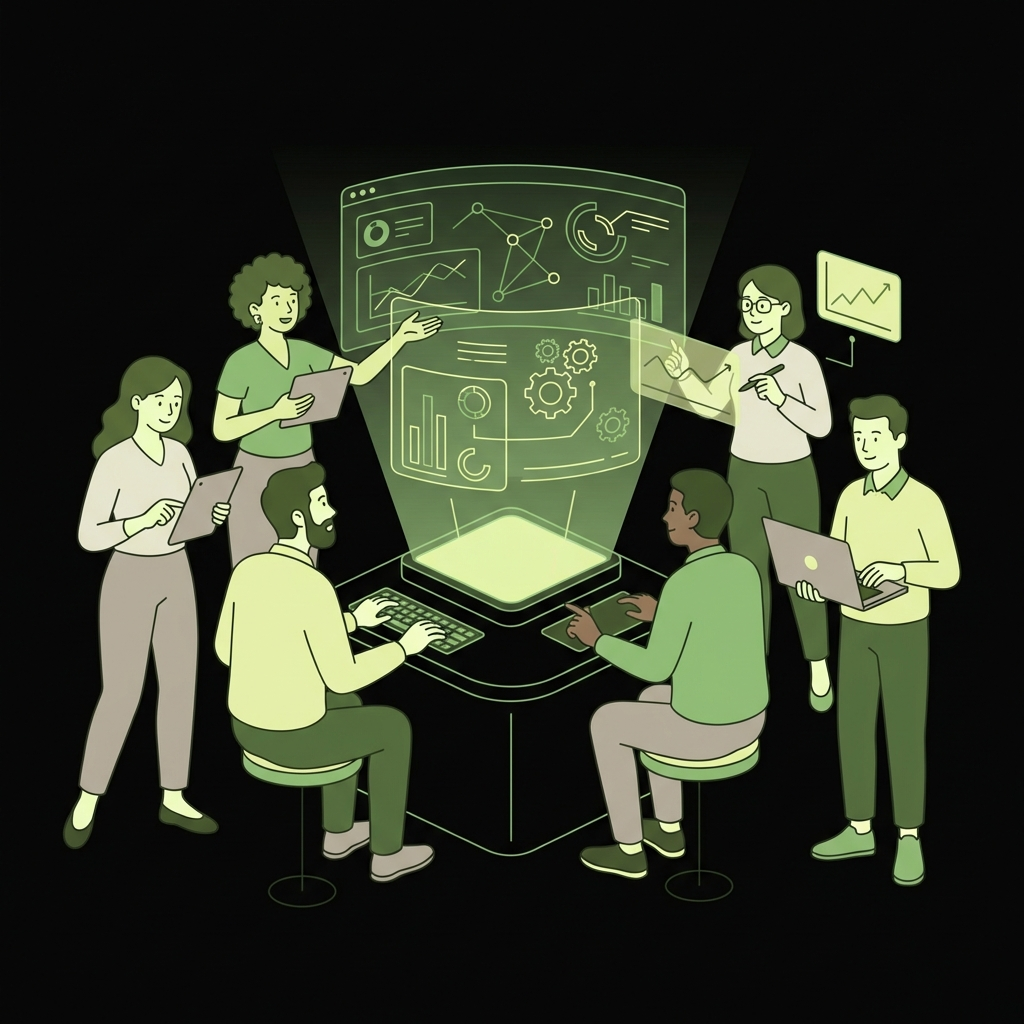
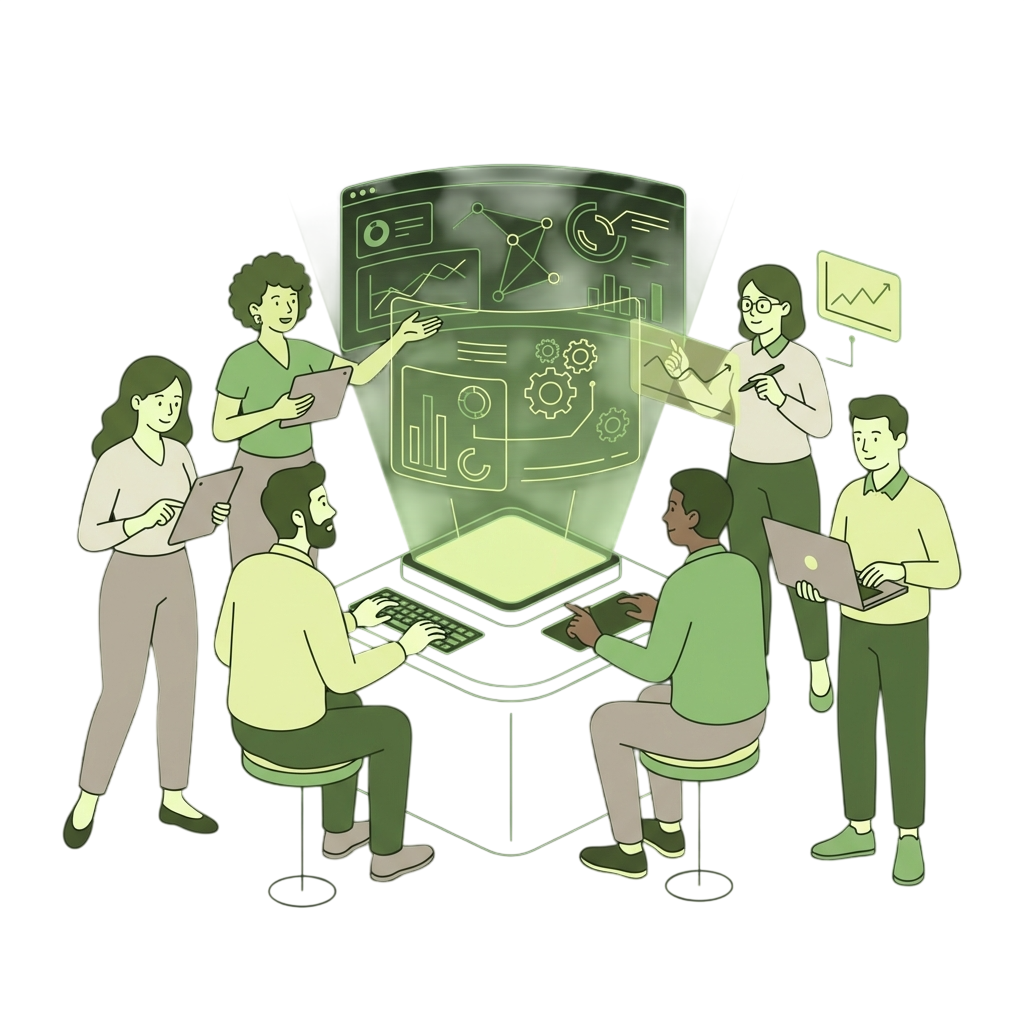
feat: implement theme provider and toggle components for light/dark mode support

diff --git a/components/Navbar.tsx b/components/Navbar.tsx
@@ -6,6 +6,7 @@ import { motion } from "framer-motion";
 import { Menu, X } from "lucide-react";
 import Image from "next/image";
 import { cn } from "@/lib/utils";
+import { ThemeToggle } from "@/components/ThemeToggle";
 
 export default function Navbar() {
     const [isOpen, setIsOpen] = useState(false);
@@ -42,7 +43,7 @@ export default function Navbar() {
                     </Link>
 
                     <div className="hidden md:block">
-                        <div className="ml-10 flex items-baseline space-x-8">
+                        <div className="ml-10 flex items-center space-x-8">
                             {navLinks.map((link) => (
                                 <Link
                                     key={link.name}
@@ -58,13 +59,15 @@ export default function Navbar() {
                             >
                                 Get Started
                             </Link>
+                            <ThemeToggle />
                         </div>
                     </div>
 
-                    <div className="md:hidden">
+                    <div className="flex items-center gap-2 md:hidden">
+                        <ThemeToggle />
                         <button
                             onClick={() => setIsOpen(!isOpen)}
-                            className="text-gray-300 hover:text-white p-2"
+                            className="text-muted-foreground hover:text-foreground p-2"
                         >
                             {isOpen ? <X className="h-6 w-6" /> : <Menu className="h-6 w-6" />}
                         </button>
@@ -78,14 +81,14 @@ export default function Navbar() {
                     initial={{ opacity: 0, y: -20 }}
                     animate={{ opacity: 1, y: 0 }}
                     exit={{ opacity: 0, y: -20 }}
-                    className="md:hidden bg-black/95 backdrop-blur-xl border-b border-white/10"
+                    className="md:hidden bg-background/95 backdrop-blur-xl border-b border-border/20"
                 >
                     <div className="px-2 pt-2 pb-3 space-y-1 sm:px-3">
                         {navLinks.map((link) => (
                             <Link
                                 key={link.name}
                                 href={link.href}
-                                className="text-gray-300 hover:text-white block px-3 py-2 rounded-md text-base font-medium"
+                                className="text-muted-foreground hover:text-foreground block px-3 py-2 rounded-md text-base font-medium"
                                 onClick={() => setIsOpen(false)}
                             >
                                 {link.name}

diff --git a/app/globals.css b/app/globals.css
@@ -14,6 +14,36 @@
   --border: #4f772d;
 }
 
+/* Light mode */
+.light {
+  --background: #f8faf5;
+  --foreground: #1a2e0a;
+  
+  --primary: #4f772d;
+  --secondary: #90a955;
+  --accent: #31572c;
+  --highlight: #4f772d;
+  
+  --muted: #e8f0dc;
+  --muted-foreground: #4f772d;
+  --border: #90a955;
+}
+
+/* Dark mode (explicit) */
+.dark {
+  --background: #050505;
+  --foreground: #ecf39e;
+  
+  --primary: #4f772d;
+  --secondary: #31572c;
+  --accent: #90a955;
+  --highlight: #ecf39e;
+  
+  --muted: #31572c;
+  --muted-foreground: #90a955;
+  --border: #4f772d;
+}
+
 @theme {
   --color-background: var(--background);
   --color-foreground: var(--foreground);
@@ -29,12 +59,21 @@
   --font-mono: var(--font-geist-mono);
 }
 
+html {
+  scroll-behavior: smooth;
+}
+
 body {
   background: var(--background);
   color: var(--foreground);
   font-family: var(--font-sans), system-ui, sans-serif;
   -webkit-font-smoothing: antialiased;
   -moz-osx-font-smoothing: grayscale;
+}
+
+/* Offset for fixed navbar */
+section[id] {
+  scroll-margin-top: 80px;
 }
 
 
@@ -45,6 +84,11 @@ body {
   border: 1px solid rgba(255, 255, 255, 0.1);
 }
 
+.light .glass {
+  background: rgba(79, 119, 45, 0.05);
+  border: 1px solid rgba(79, 119, 45, 0.1);
+}
+
 .glass-card {
   background: linear-gradient(145deg, rgba(255, 255, 255, 0.05) 0%, rgba(255, 255, 255, 0.02) 100%);
   backdrop-filter: blur(16px);
@@ -52,8 +96,19 @@ body {
   box-shadow: 0 4px 30px rgba(0, 0, 0, 0.1);
 }
 
+.light .glass-card {
+  background: linear-gradient(145deg, rgba(79, 119, 45, 0.08) 0%, rgba(79, 119, 45, 0.03) 100%);
+  border: 1px solid rgba(79, 119, 45, 0.12);
+  box-shadow: 0 4px 30px rgba(79, 119, 45, 0.08);
+}
+
 .bg-grid-pattern {
   background-size: 40px 40px;
   background-image: linear-gradient(to right, rgba(79, 119, 45, 0.1) 1px, transparent 1px),
     linear-gradient(to bottom, rgba(79, 119, 45, 0.1) 1px, transparent 1px);
+}
+
+.light .bg-grid-pattern {
+  background-image: linear-gradient(to right, rgba(79, 119, 45, 0.15) 1px, transparent 1px),
+    linear-gradient(to bottom, rgba(79, 119, 45, 0.15) 1px, transparent 1px);
 }

diff --git a/components/ThemeToggle.tsx b/components/ThemeToggle.tsx
@@ -1,0 +1,36 @@
+"use client";
+
+import { useTheme } from "next-themes";
+import { useEffect, useState } from "react";
+import { Sun, Moon } from "lucide-react";
+
+export function ThemeToggle() {
+  const { theme, setTheme } = useTheme();
+  const [mounted, setMounted] = useState(false);
+
+  useEffect(() => {
+    setMounted(true);
+  }, []);
+
+  if (!mounted) {
+    return (
+      <button className="w-9 h-9 rounded-full bg-secondary/20 border border-primary/20 inline-flex items-center justify-center">
+        <div className="w-4 h-4" />
+      </button>
+    );
+  }
+
+  return (
+    <button
+      onClick={() => setTheme(theme === "dark" ? "light" : "dark")}
+      className="w-9 h-9 rounded-full bg-secondary/20 border border-primary/20 hover:bg-secondary/40 transition-colors inline-flex items-center justify-center"
+      aria-label="Toggle theme"
+    >
+      {theme === "dark" ? (
+        <Sun className="w-4 h-4 text-foreground" />
+      ) : (
+        <Moon className="w-4 h-4 text-foreground" />
+      )}
+    </button>
+  );
+}

diff --git a/app/layout.tsx b/app/layout.tsx
@@ -1,6 +1,7 @@
 import type { Metadata } from "next";
 import { Geist, Geist_Mono } from "next/font/google";
 import "./globals.css";
+import { ThemeProvider } from "@/components/ThemeProvider";
 
 const geistSans = Geist({
   variable: "--font-geist-sans",
@@ -23,11 +24,11 @@ export default function RootLayout({
   children: React.ReactNode;
 }>) {
   return (
-    <html lang="en">
+    <html lang="en" suppressHydrationWarning>
       <body
         className={`${geistSans.variable} ${geistMono.variable} antialiased`}
       >
-        {children}
+        <ThemeProvider>{children}</ThemeProvider>
       </body>
     </html>
   );

diff --git a/components/ThemeProvider.tsx b/components/ThemeProvider.tsx
@@ -1,0 +1,17 @@
+"use client";
+
+import { ThemeProvider as NextThemesProvider } from "next-themes";
+import { ReactNode } from "react";
+
+export function ThemeProvider({ children }: { children: ReactNode }) {
+  return (
+    <NextThemesProvider
+      attribute="class"
+      defaultTheme="dark"
+      enableSystem
+      disableTransitionOnChange
+    >
+      {children}
+    </NextThemesProvider>
+  );
+}
